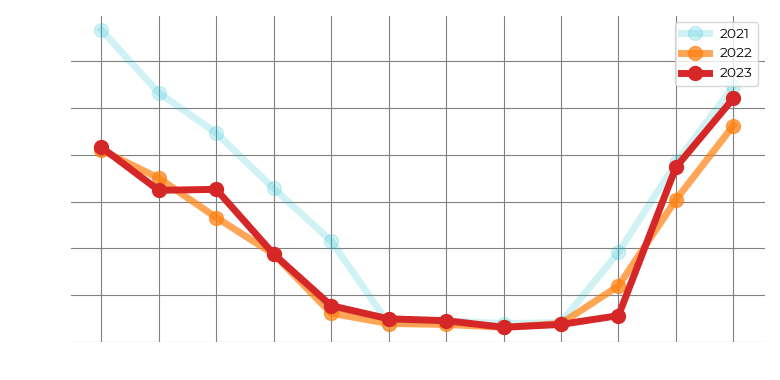
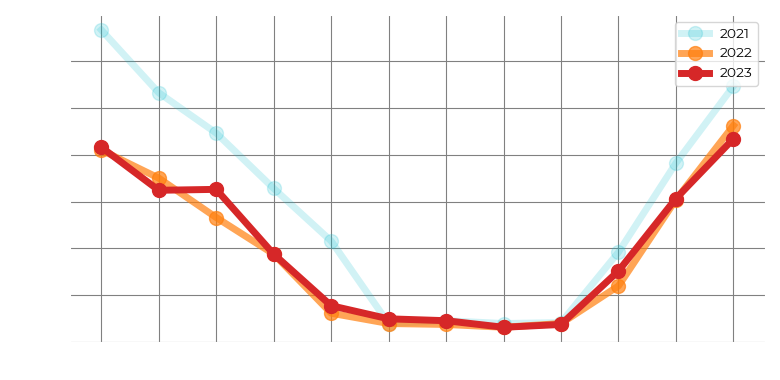
Tm oktober 2023

Changed region(s): [[0.7077, 0.2316, 0.9538, 0.8684]]

diff --git a/energieverbruik.py b/energieverbruik.py
@@ -41,11 +41,11 @@ VORIG_JAAR = HUIDIG_JAAR - 1
 # INVOEREN GEGEVENS HUIDIGE JAAR
 #
 MAAND = Month.okt
-DAG_VAN_MAAND = 12
+DAG_VAN_MAAND = 31
 DAGEN_IN_MAAND = 31
-VERBRUIK_GAS = 11
-VERBRUIK_ELEKTRICITEIT = 50
-VERBRUIK_WATER = 3
+VERBRUIK_GAS = 76
+VERBRUIK_ELEKTRICITEIT = 135
+VERBRUIK_WATER = 8
 PRIJS_GAS = 1.39006
 PRIJS_ELEKTRICITEIT = 0.39802
 PRIJS_WATER = 1.021
@@ -81,26 +81,28 @@ gemGraaddagen = ((df['grddg_2019'] + df['grddg_2020']
 sumGraaddagen = 0
 for i in gemGraaddagen:
     sumGraaddagen += i
-    percGraaddagen = (gemGraaddagen / sumGraaddagen).round(2)
+percGraaddagen = (gemGraaddagen / sumGraaddagen).round(2)
 
 # Bereken percentage verbruik per maand voor gasverbruik vorig jaar
 sumVerbrGasVrgJr = 0
 for i in totVerbrGasVrgJr:
     sumVerbrGasVrgJr += i
-    percVerbrGasVrgJr = (totVerbrGasVrgJr / sumVerbrGasVrgJr)
+percVerbrGasVrgJr = (totVerbrGasVrgJr / sumVerbrGasVrgJr)
 
 # Correctie verbruik gas vorig jaar
 corrVerbrGasVrgJr = totVerbrGasVrgJr - vastGasMnd
 sumVerbrGasVrgJr_corr = 0
 for i in corrVerbrGasVrgJr:
     sumVerbrGasVrgJr_corr += i
-    percVerbrGasVrgJr_corr = (corrVerbrGasVrgJr / sumVerbrGasVrgJr_corr)
+#percVerbrGasVrgJr_corr = (corrVerbrGasVrgJr / sumVerbrGasVrgJr_corr)
+percVerbrGasVrgJr = (totVerbrGasVrgJr / sumVerbrGasVrgJr_corr)
 
 corrVerbrGasVrgJr2 = totVerbrGasVrgJr2 - vastGasMnd
 sumVerbrGasVrgJr2_corr = 0
 for i in corrVerbrGasVrgJr2:
     sumVerbrGasVrgJr2_corr += i
-    percVerbrGasVrgJr2_corr = (corrVerbrGasVrgJr2 / sumVerbrGasVrgJr2_corr)
+#percVerbrGasVrgJr2_corr = (corrVerbrGasVrgJr2 / sumVerbrGasVrgJr2_corr)
+percVerbrGasVrgJr2 = (corrVerbrGasVrgJr2 / sumVerbrGasVrgJr2_corr)
 
 #
 # BEREKENINGEN ELEKTRICITEIT
@@ -143,7 +145,7 @@ for i in totVerbrWatVrgJr2:
 
 # Combineer graaddagen en verbruik vorig jaar als basis voor verwachting
 # verbruik komende jaar
-combiVerbrGas = ((percGraaddagen + percVerbrGasVrgJr_corr + percVerbrGasVrgJr2_corr) / 3)
+combiVerbrGas = ((percGraaddagen + percVerbrGasVrgJr + percVerbrGasVrgJr2) / 3)
 
 # Combineer gemiddeld elektriciteit en verbruik VrgJr als basis voor verwachting
 combiVerbrEle = ((gemEle + percVerbrEleVrgJr + percVerbrEleVrgJr2) / 3)
@@ -203,9 +205,8 @@ else:
             schatVerbrWatHdgJr[i] = ((verbrWatMnd / combiVerbrWat[MAAND])
                                      * combiVerbrWat[i]).round(2)
         else:
-            schatVerbrGasHdgJr[i] = ((((verbrGasMnd / combiVerbrGas[MAAND])
-                                       + gasMndnNJr)/2) * combiVerbrGas[i]
-                                     + vastGasMnd).round(2)
+            schatVerbrGasHdgJr[i] = (((((verbrGasMnd / combiVerbrGas[MAAND])
+                                       + gasMndnNJr)/2) + vastGasMnd) * combiVerbrGas[i]).round(2)
             schatVerbrEleHdgJr[i] = ((((verbrEleMnd / combiVerbrEle[MAAND])
                                        + eleMndnNJr)/2) * combiVerbrEle[i]).round(2)
             schatVerbrWatHdgJr[i] = ((((verbrWatMnd / combiVerbrWat[MAAND])
